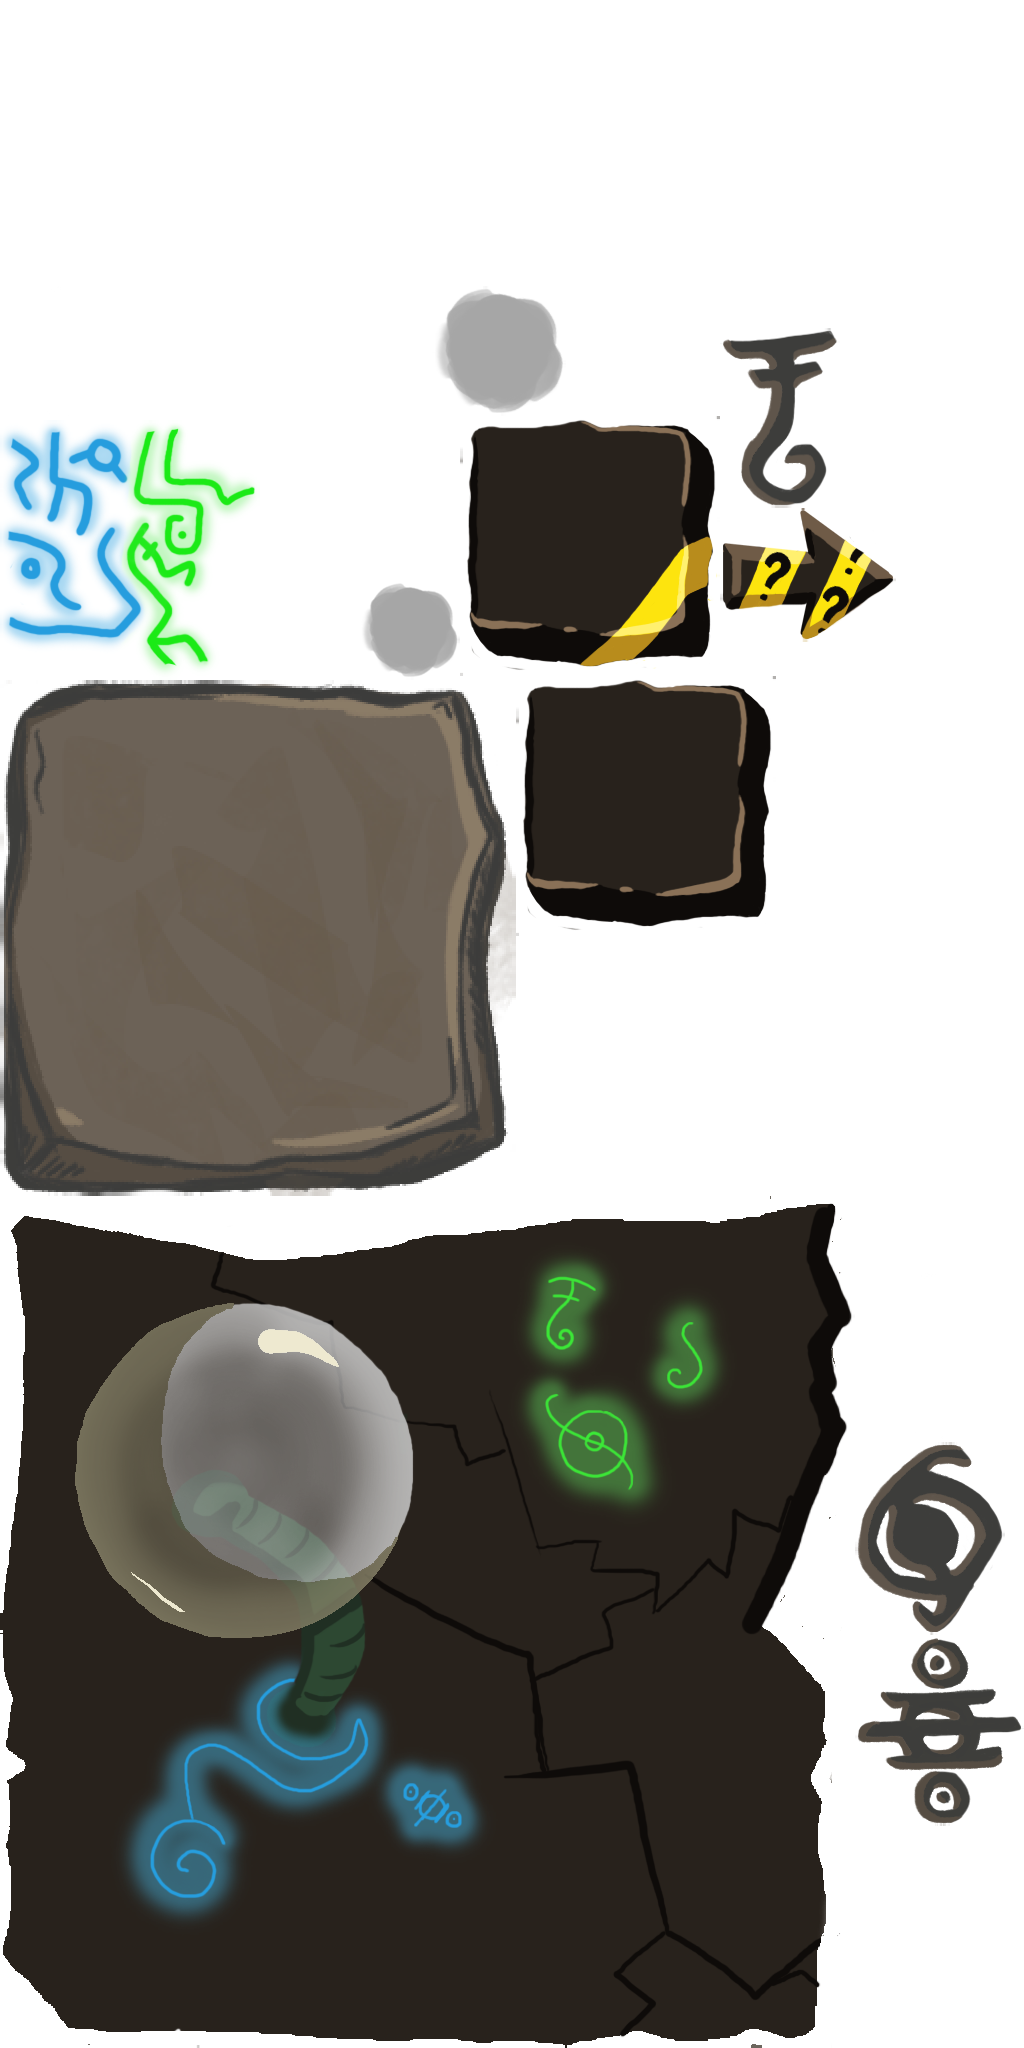
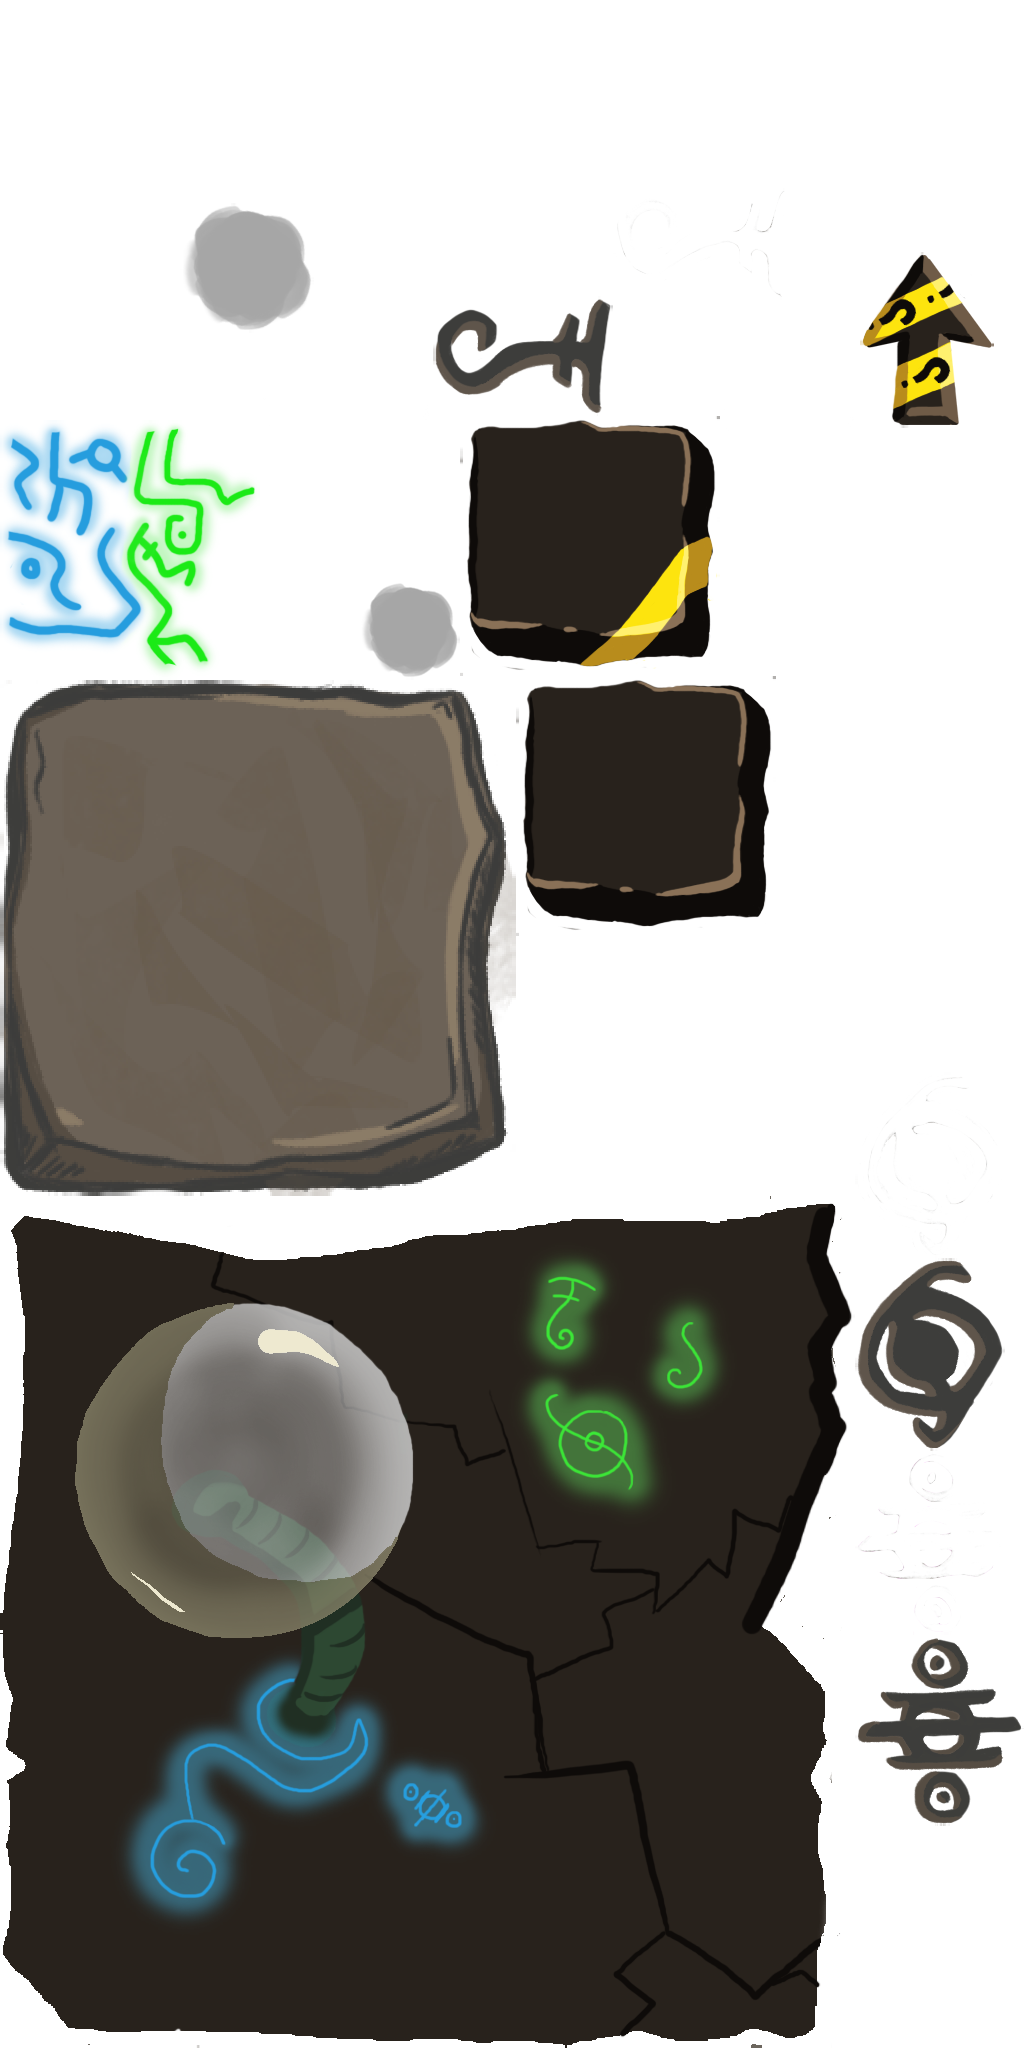
added ability to set tabletcell color

diff --git a/Assets/Scripts/TabletCell.cs b/Assets/Scripts/TabletCell.cs
@@ -4,7 +4,8 @@ using UnityEngine;
 
 public class TabletCell : MonoBehaviour
 {
-    public tk2dSpriteAnimator tabletAnimator;
+    public tk2dSpriteAnimator tabletSymbol;
+    public tk2dSpriteAnimator tabletGlow;
 
     public enum Colors
     {
@@ -17,10 +18,10 @@ public class TabletCell : MonoBehaviour
     {
         Eye,
         Snake,
-        Dream
+        Dream,
+        None
     }
 
-    private Color color;
     private Symbols symbol;
 
     public Colors Color;
@@ -32,14 +33,15 @@ public class TabletCell : MonoBehaviour
 
     // Use this for initialization
     void Start()
-    {
+    {        
         SetSymbol(Symbol);
+        SetGlow(Colors.None);
     }
 
     // Update is called once per frame
     void Update()
-    {
-
+    {      
+      SetGlow(Color);
     }
 
     private void SetSymbol(Symbols symbol)
@@ -47,16 +49,44 @@ public class TabletCell : MonoBehaviour
         switch (symbol)
         {
             case Symbols.Eye:
-                tabletAnimator.SetFrame(0);
+                tabletSymbol.gameObject.SetActive(true);
+                tabletSymbol.SetFrame(0);
+                tabletGlow.SetFrame(0);
                 break;
 
             case Symbols.Snake:
-                tabletAnimator.SetFrame(1);
+                tabletSymbol.gameObject.SetActive(true);
+                tabletSymbol.SetFrame(1);
+                tabletGlow.SetFrame(1);
                 break;
 
             case Symbols.Dream:
-                tabletAnimator.SetFrame(2);
+                tabletSymbol.gameObject.SetActive(true);
+                tabletSymbol.SetFrame(2);
+                tabletGlow.SetFrame(2);
                 break;
+            case Symbols.None:
+                tabletSymbol.gameObject.SetActive(false);
+                break;
+        }
+    }
+
+    private void SetGlow (Colors glow) {
+        switch (glow) 
+        {
+          case Colors.Blue:
+              tabletGlow.gameObject.SetActive(true);
+              tabletGlow.Sprite.color = UnityEngine.Color.blue;
+              break;
+
+          case Colors.Green:
+              tabletGlow.gameObject.SetActive(true);
+              tabletGlow.Sprite.color = UnityEngine.Color.green;
+              break;
+
+          case Colors.None:
+              tabletGlow.gameObject.SetActive(false);
+              break;
         }
     }
 }
